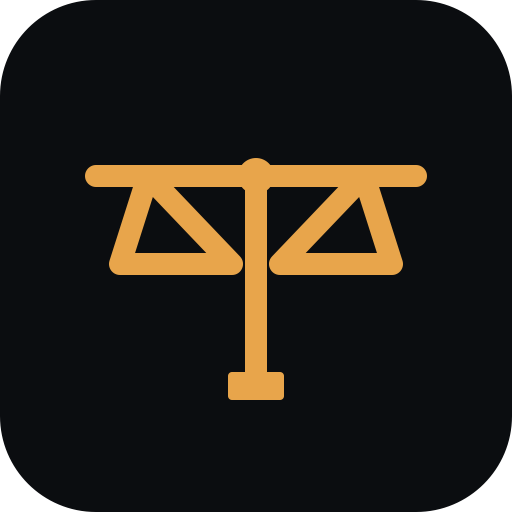
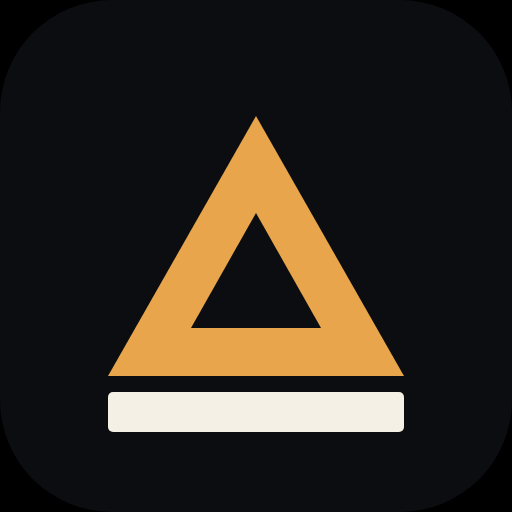
docs: replace the scale mark with a hollow delta on a bench
The gold scale read as legal. A page with a filled triangle read as play.
The mark is now a scored Δ sitting on a cream rail — the product name, drawn.

diff --git a/README.md b/README.md
@@ -1,3 +1,7 @@
+<p align="center">
+  <img src="docs/assets/logo.svg" width="96" height="96" alt="context-bench: a scored delta on a bench" />
+</p>
+
 # context-bench
 
 Score whether a `CLAUDE.md` or skill bundle actually helps a model — or just spends tokens.
@@ -57,6 +61,8 @@ python3 -m contextbench.cli --context-dir ~/.claude/skills/caveman --models opus
 
 Writes `results/runs_<ts>.json`, `results/judged_<ts>.json`, and `results/leaderboard_<ts>.md`.
 
+The leaderboard includes mean scores, an **Arena-style Elo** section (pairwise wins from per-case score comparisons), and bootstrap confidence intervals on ablation deltas when skill profiles are present. Elo numbers are **within-run only** — use them to rank profiles in that run, not to compare across machines or sessions (same idea as Chatbot Arena's relative ranking).
+
 ### Flags
 
 | Flag | What it does |
@@ -70,7 +76,7 @@ Writes `results/runs_<ts>.json`, `results/judged_<ts>.json`, and `results/leader
 
 ## Read the numbers honestly
 
-The judge is a model call, not ground truth. Read a few `results/judged_*.json` reasons before trusting a delta. Six Cases is a smoke bench, not a statistically powered one. If a Profile swings on 1–2 Cases, that is noise.
+The judge is a model call, not ground truth. Read a few `results/judged_*.json` reasons before trusting a delta. Ten Cases is a smoke bench, not a statistically powered one. If a Profile swings on 1–2 Cases, that is noise.
 
 **SKILL.md files are not invoked as Claude Code skills.** v1 concatenates markdown into a system prompt. That is the right test for a `CLAUDE.md`. It is the wrong test for a skill that should be called by name. `--wrap fair` stops Opus/Sonnet from treating the dump as a jailbreak ([ADR 0004](./docs/adr/0004-fair-cli-wrapping.md)).
 
